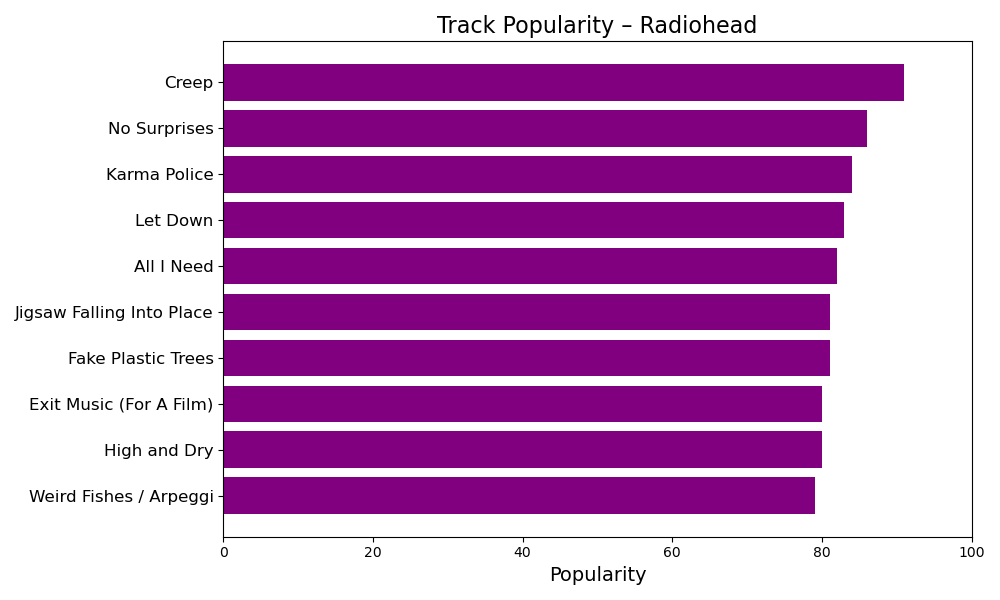
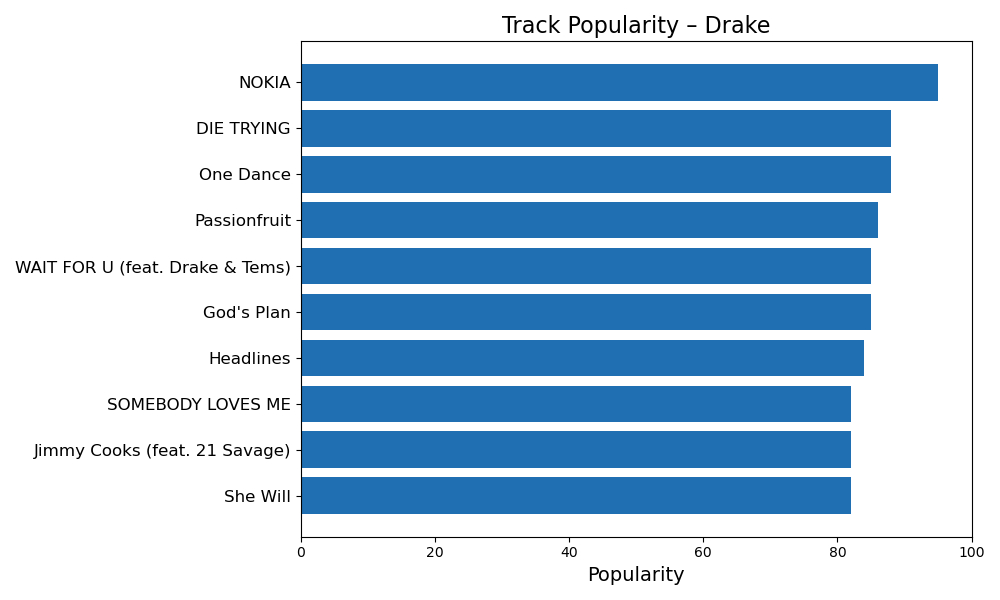
done with mvp

diff --git a/code/templates/home.html b/code/templates/home.html
@@ -25,16 +25,15 @@
         </form>
         <! SLAP THE APPY >
         <form action="/refresh" method="post" style="margin-top: 20px;">
-            <button type="submit">Refresh</button>
+            <button type="submit">Clear</button>
         </form>
     </div>
 
 
-    <hr>
 
     <! FOUNTAIN PEN >
 
-{# Manual Control - OBSOLETE #}
+<!-- {# Manual Control - OBSOLETE #}
 {#<form action="/set_font" method="post">#}
 {#    <label for="font">Choose a font:</label>#}
 {#    <select name="font" id="font">#}
@@ -44,33 +43,40 @@
 {#        <option value="korean" {% if current_font == 'korean' %}selected{% endif %}>Korean (Noto Sans KR)</option>#}
 {#    </select>#}
 {#    <button type="submit">Apply Font</button>#}
-{#</form>#}
+{#</form>#} -->
 
-    {% if current_font %}
+    <!-- {% if current_font %}
         <p><strong>Current Font:</strong> {{ current_font }}</p>
-    {% endif %}
+    {% endif %} -->
 
 
     <hr>
 
     {% if artist %}
-        <h2>Artist: {{ artist["name"] }}</h2>
+        <div class="artist-info">
+            <h1>{{ artist["name"] }}</h1>
+            <h2>Popularity: {{ artist["popularity"] }}</h2>
+            <h2>Genres: {{ artist["genres"] | map('title') | join(", ") }}</h2>
+        </div>
         {% if "error" in artist %}
             <p>{{ artist["error"] }}</p>
         {% else %}
-        <h3>Top Albums:</h3>
-        <ul>
-            {% for album in albums %}
-                <li>
-                    <strong>{{ album["name"] }}</strong>
-                    <br>
-                    <img src="{{ album['image'] }}" alt="Album Cover" width="100">
-                </li>
-            {% endfor %}
-        </ul>
-
+        <div class="album-container">
+            <h3>Top Albums:</h3>
+            <ul class="album-list">
+                {% for album in albums %}
+                    <li>
+                        <strong>{{ album["name"] }}</strong>
+                        <br>
+                        <img src="{{ album['image'] }}" alt="Album Cover" width="100">
+                    </li>
+                {% endfor %}
+             </ul>
+        </div>
+    
+        <div class="track-container">
             <h3>Top Tracks:</h3>
-            <ul>
+            <ol class="track-list">
                 {% for track in tracks %}
                     <li>
                         <strong>{{ track["name"] }}</strong> (Popularity: {{ track["popularity"] }})
@@ -89,16 +95,18 @@
                         {% endif %}
                     </li>
                 {% endfor %}
-            </ul>
+            </ol>
+        </div>
+        {% if track_analysis %}
+        <div class="analysis-container">
+            <h3>Popularity Analysis</h3>
 
-            {% if track_analysis %}
-                <h3>Track Analysis:</h3>
-                <ul>
-                    <li>Average Popularity: {{ track_analysis["average_popularity"] }}</li>
-                    <li>Max Popularity: {{ track_analysis["max_popularity"] }}</li>
-                    <li>Min Popularity: {{ track_analysis["min_popularity"] }}</li>
-                </ul>
-            {% endif %}
+                <h4>Average: {{ track_analysis["average_popularity"] }}</h4>
+                <h4>Max: {{ track_analysis["max_popularity"] }}</h4>
+                <h4>Min: {{ track_analysis["min_popularity"] }}</h4>
+        </div>
+    {% endif %}
+        
         {% endif %}
     {% endif %}
     {% if plot_path %}

diff --git a/code/static/css/style.css b/code/static/css/style.css
@@ -14,16 +14,28 @@ h1 {
     margin-top: 20px;
 }
 
+h2 {
+    text-align: center;
+    color: #206fb2; /* Bright blue */
+    margin-top: 20px;
+    font-size: 20px;
+}
+
+h3 {
+    text-align: center;
+    color: #206fb2; /* Bright blue */
+    margin-top: 20px;
+}
 
 button {
     background-color: #1d82ba; 
-    color: white; 
+    color: #f9f9f9; 
     border: none; 
     border-radius: 20px; 
     padding: 10px 20px; 
     cursor: pointer;
     font-size: 1em; 
-    color: white;
+    color: #f9f9f9;
 }
 
 button:hover {
@@ -46,41 +58,85 @@ label {
 input[type="text"] {
     padding: 10px;
     width: 300px;
-    border: 1px solid #ccc;
+    border: 1px solid #ddd;
     border-radius: 5px;
     margin-bottom: 10px;
 }
 
 
-ul {
+.album-list{
     list-style-type: none;
     padding: 0;
 }
 
-li {
+.album-container li {
     margin: 10px 0;
     padding: 10px;
-    background-color: #fff;
+    background-color: #f9f9f9;
     border: 1px solid #ddd;
-    border-radius: 5px;
+    border-radius: 20px;
+    box-shadow: 0 4px 6px rgba(0, 0, 0, 0.1);
 }
+
+.track-list {
+    display: flex;
+    flex-direction: column;
+    gap: 10px;
+    padding: 0;
+    margin: 0 auto;
+    align-items: center;
+    list-style-position: inside;
+}
+
+.track-list li {
+    text-align: center;
+    background-color: #f9f9f9;
+    padding: 10px;
+    border-radius: 20px;
+    box-shadow: 0 2px 4px rgba(0, 0, 0, 0.1);
+    width: 100%;
+    max-width: 500px;
+}
+
+.analysis-container {
+    text-align: center;
+    background-color: #f9f9f9;
+    padding: 10px;
+    border-radius: 20px;
+    box-shadow: 0 2px 4px rgba(0, 0, 0, 0.1);
+    width: 100%;
+    max-width: 500px;
+    margin: 20px auto;
+}
+
+.analysis-container h3 {
+    margin-bottom: 10px;
+    color: #2c3e50;
+}
+
+.analysis-container ul {
+    list-style-position: inside;
+    padding: 0;
+    margin: 0;
+}
+
 
 strong {
     color: #2c3e50;
 }
 
-/* Image styles */
+
 img {
     border-radius: 5px;
     margin-top: 10px;
 }
 
-/* Audio player styles */
+
 audio {
     margin-top: 10px;
 }
 
-/* Visualization styles */
+
 h3 {
     color: #34495e;
     margin-top: 20px;
@@ -109,4 +165,49 @@ img[alt="Track Popularity Bar Chart"] {
 
 .header-container img {
     margin-right: 0px;
+}
+
+.artist-info {
+    text-align: center;
+    background-color: #f9f9f9;
+    padding: 20px;
+    margin: 20px auto;
+    border-radius: 20px;
+    box-shadow: 0 4px 6px rgba(0, 0, 0, 0.1);
+    max-width: 500px;
+}
+
+.artist-info h1 {
+    margin-top: 10px;
+    font-size: 2.5em;
+    color: #206fb2;
+    margin-bottom: 10px;
+}
+
+.artist-info h2 {
+    font-size: 1.2em;
+    color: #34495e;
+    margin: 5px 0;
+}
+
+.album-container {
+    display: flex;
+    flex-direction: column;
+    align-items: center;
+    padding: 5px;
+}
+
+.album-list {
+    display: flex;
+    flex-wrap: wrap;
+    gap: 20px;
+    list-style-type: none;
+    padding: 0;
+    margin: 0;
+    justify-content: center;
+}
+
+.album-list li {
+    text-align: center;
+    flex: 1 1 150px;
 }

diff --git a/code/utils/visualize.py b/code/utils/visualize.py
@@ -38,6 +38,8 @@ def load_font(language='general'):
 
 
 def plot_popularity_bar(df, artist_name, font_choice='general'):
+
+    artist_name = artist_name.title()
     font_prop = load_font(font_choice)
 
     sorted_df = df.sort_values("popularity", ascending=True)
@@ -46,7 +48,7 @@ def plot_popularity_bar(df, artist_name, font_choice='general'):
     plt.barh(
         sorted_df["track_name"],
         sorted_df["popularity"],
-        color="purple"
+        color="#206fb2"
     )
     if font_prop:
         plt.title(f"Track Popularity – {artist_name}", fontproperties=font_prop, fontsize=16)
